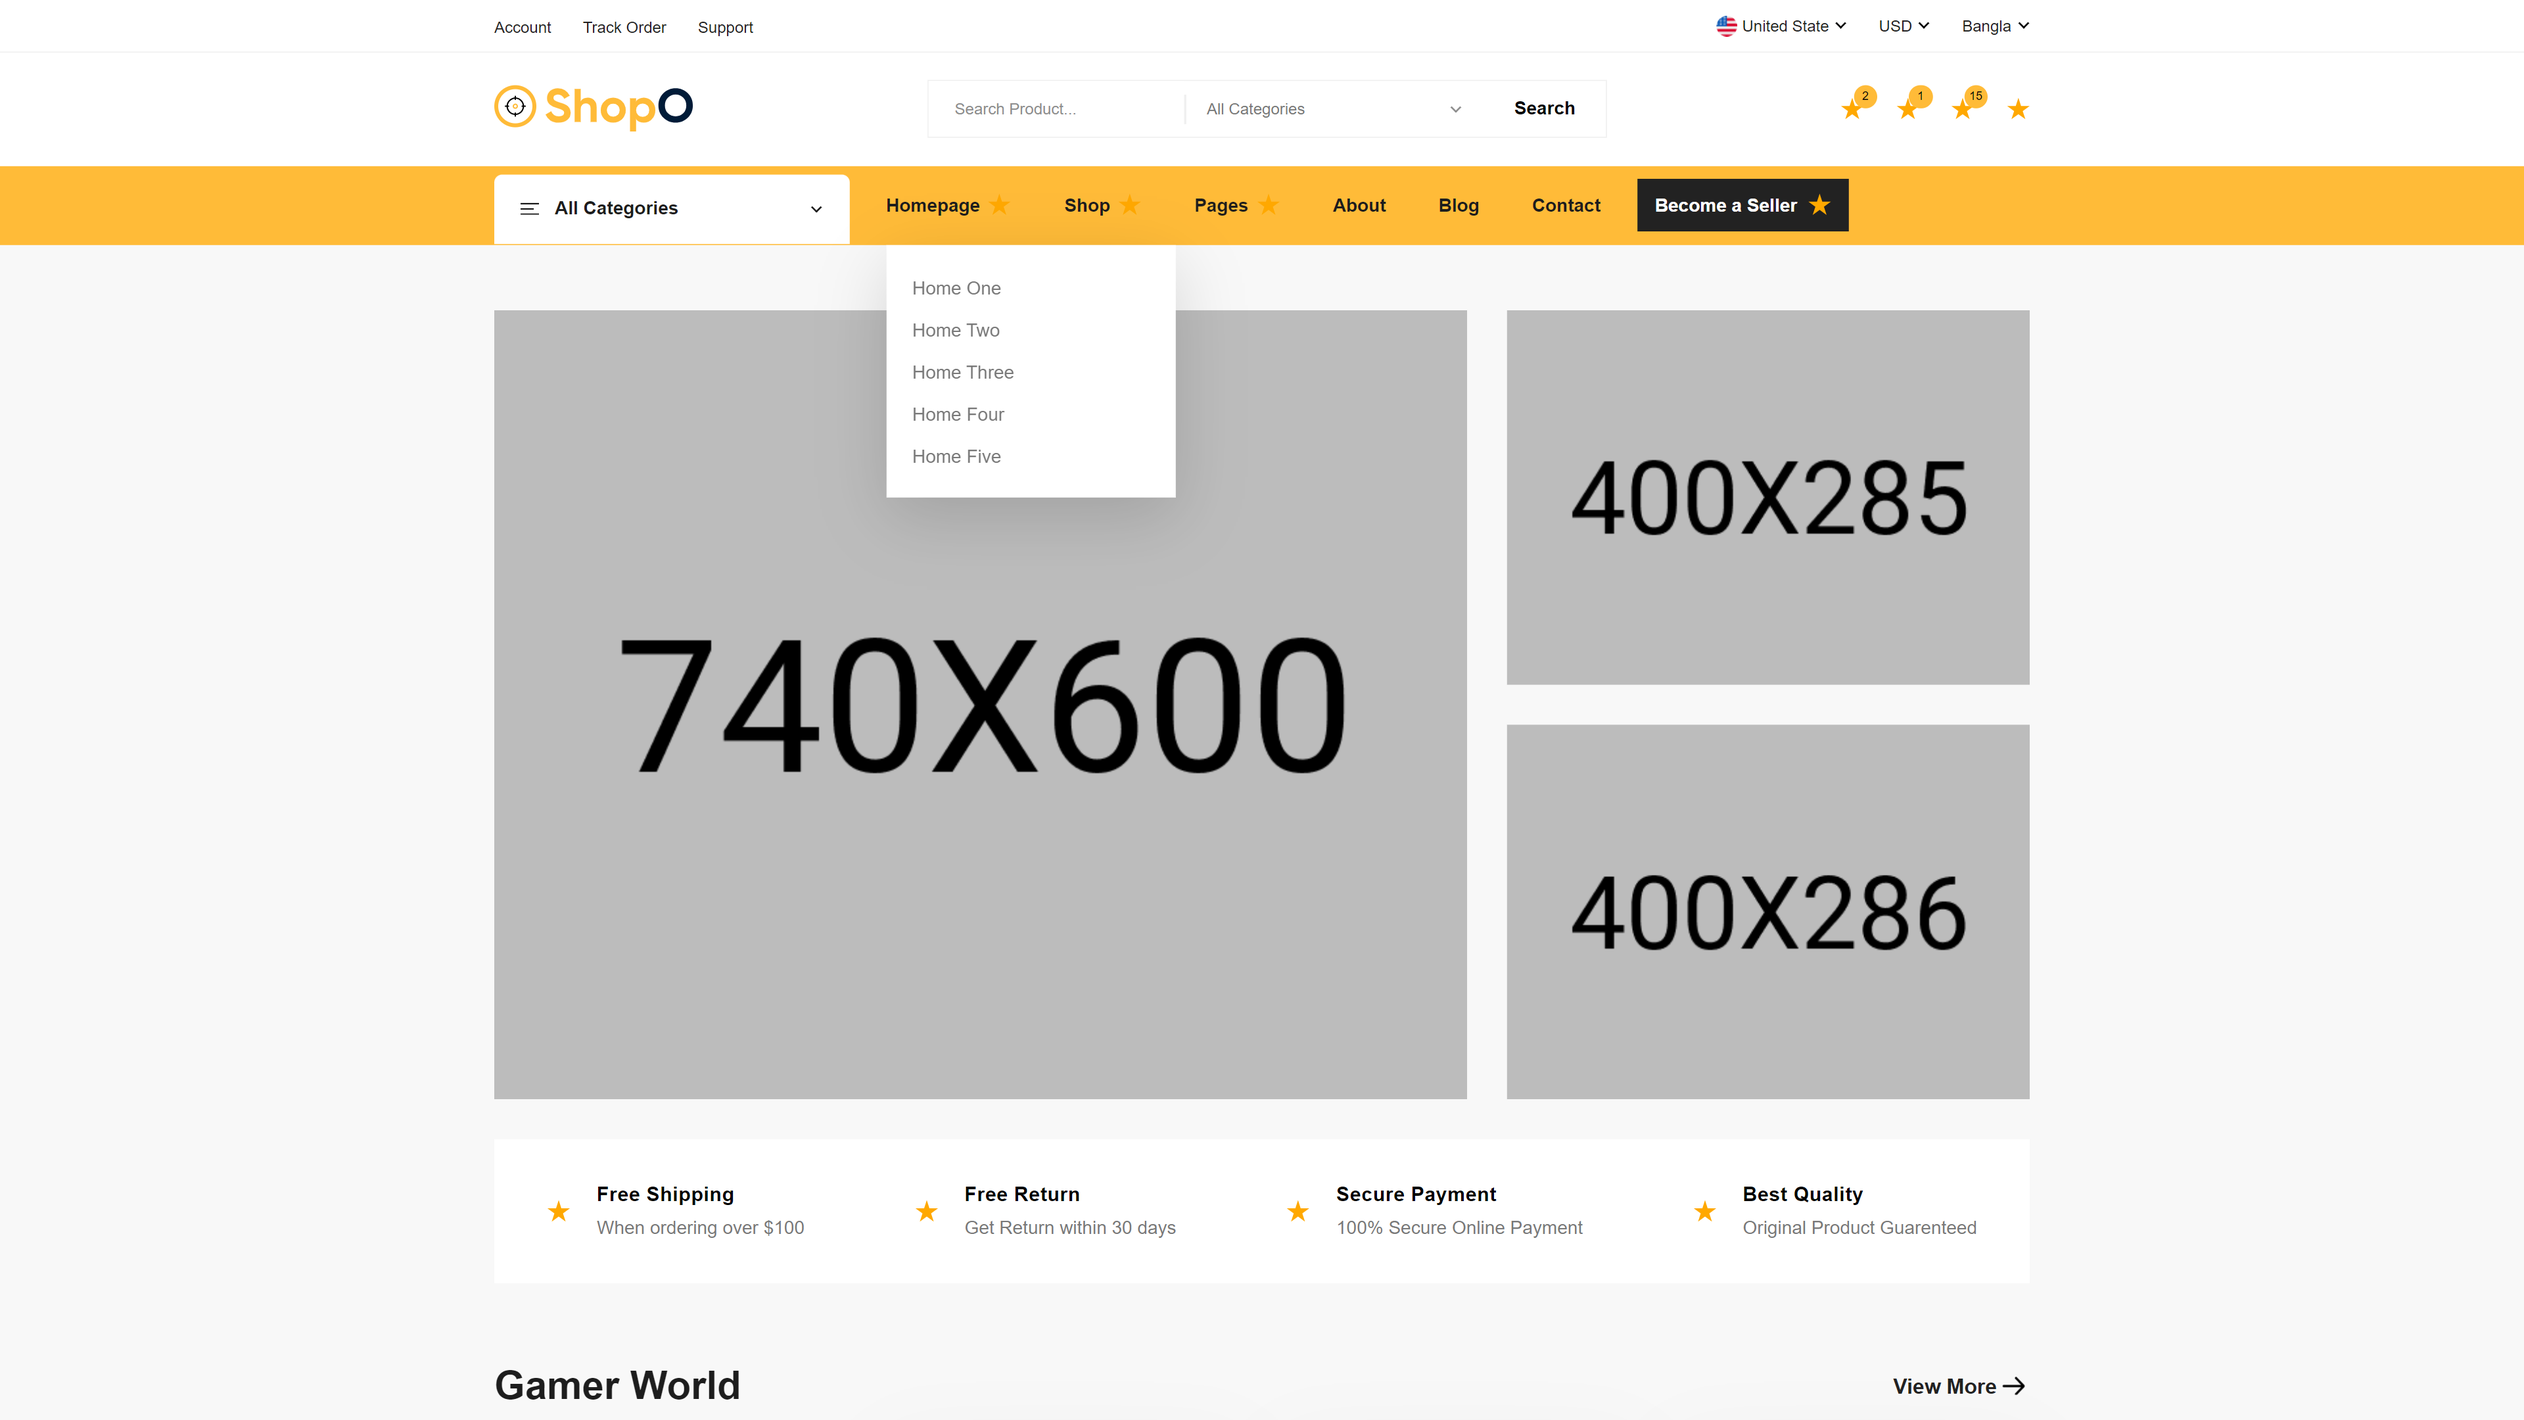
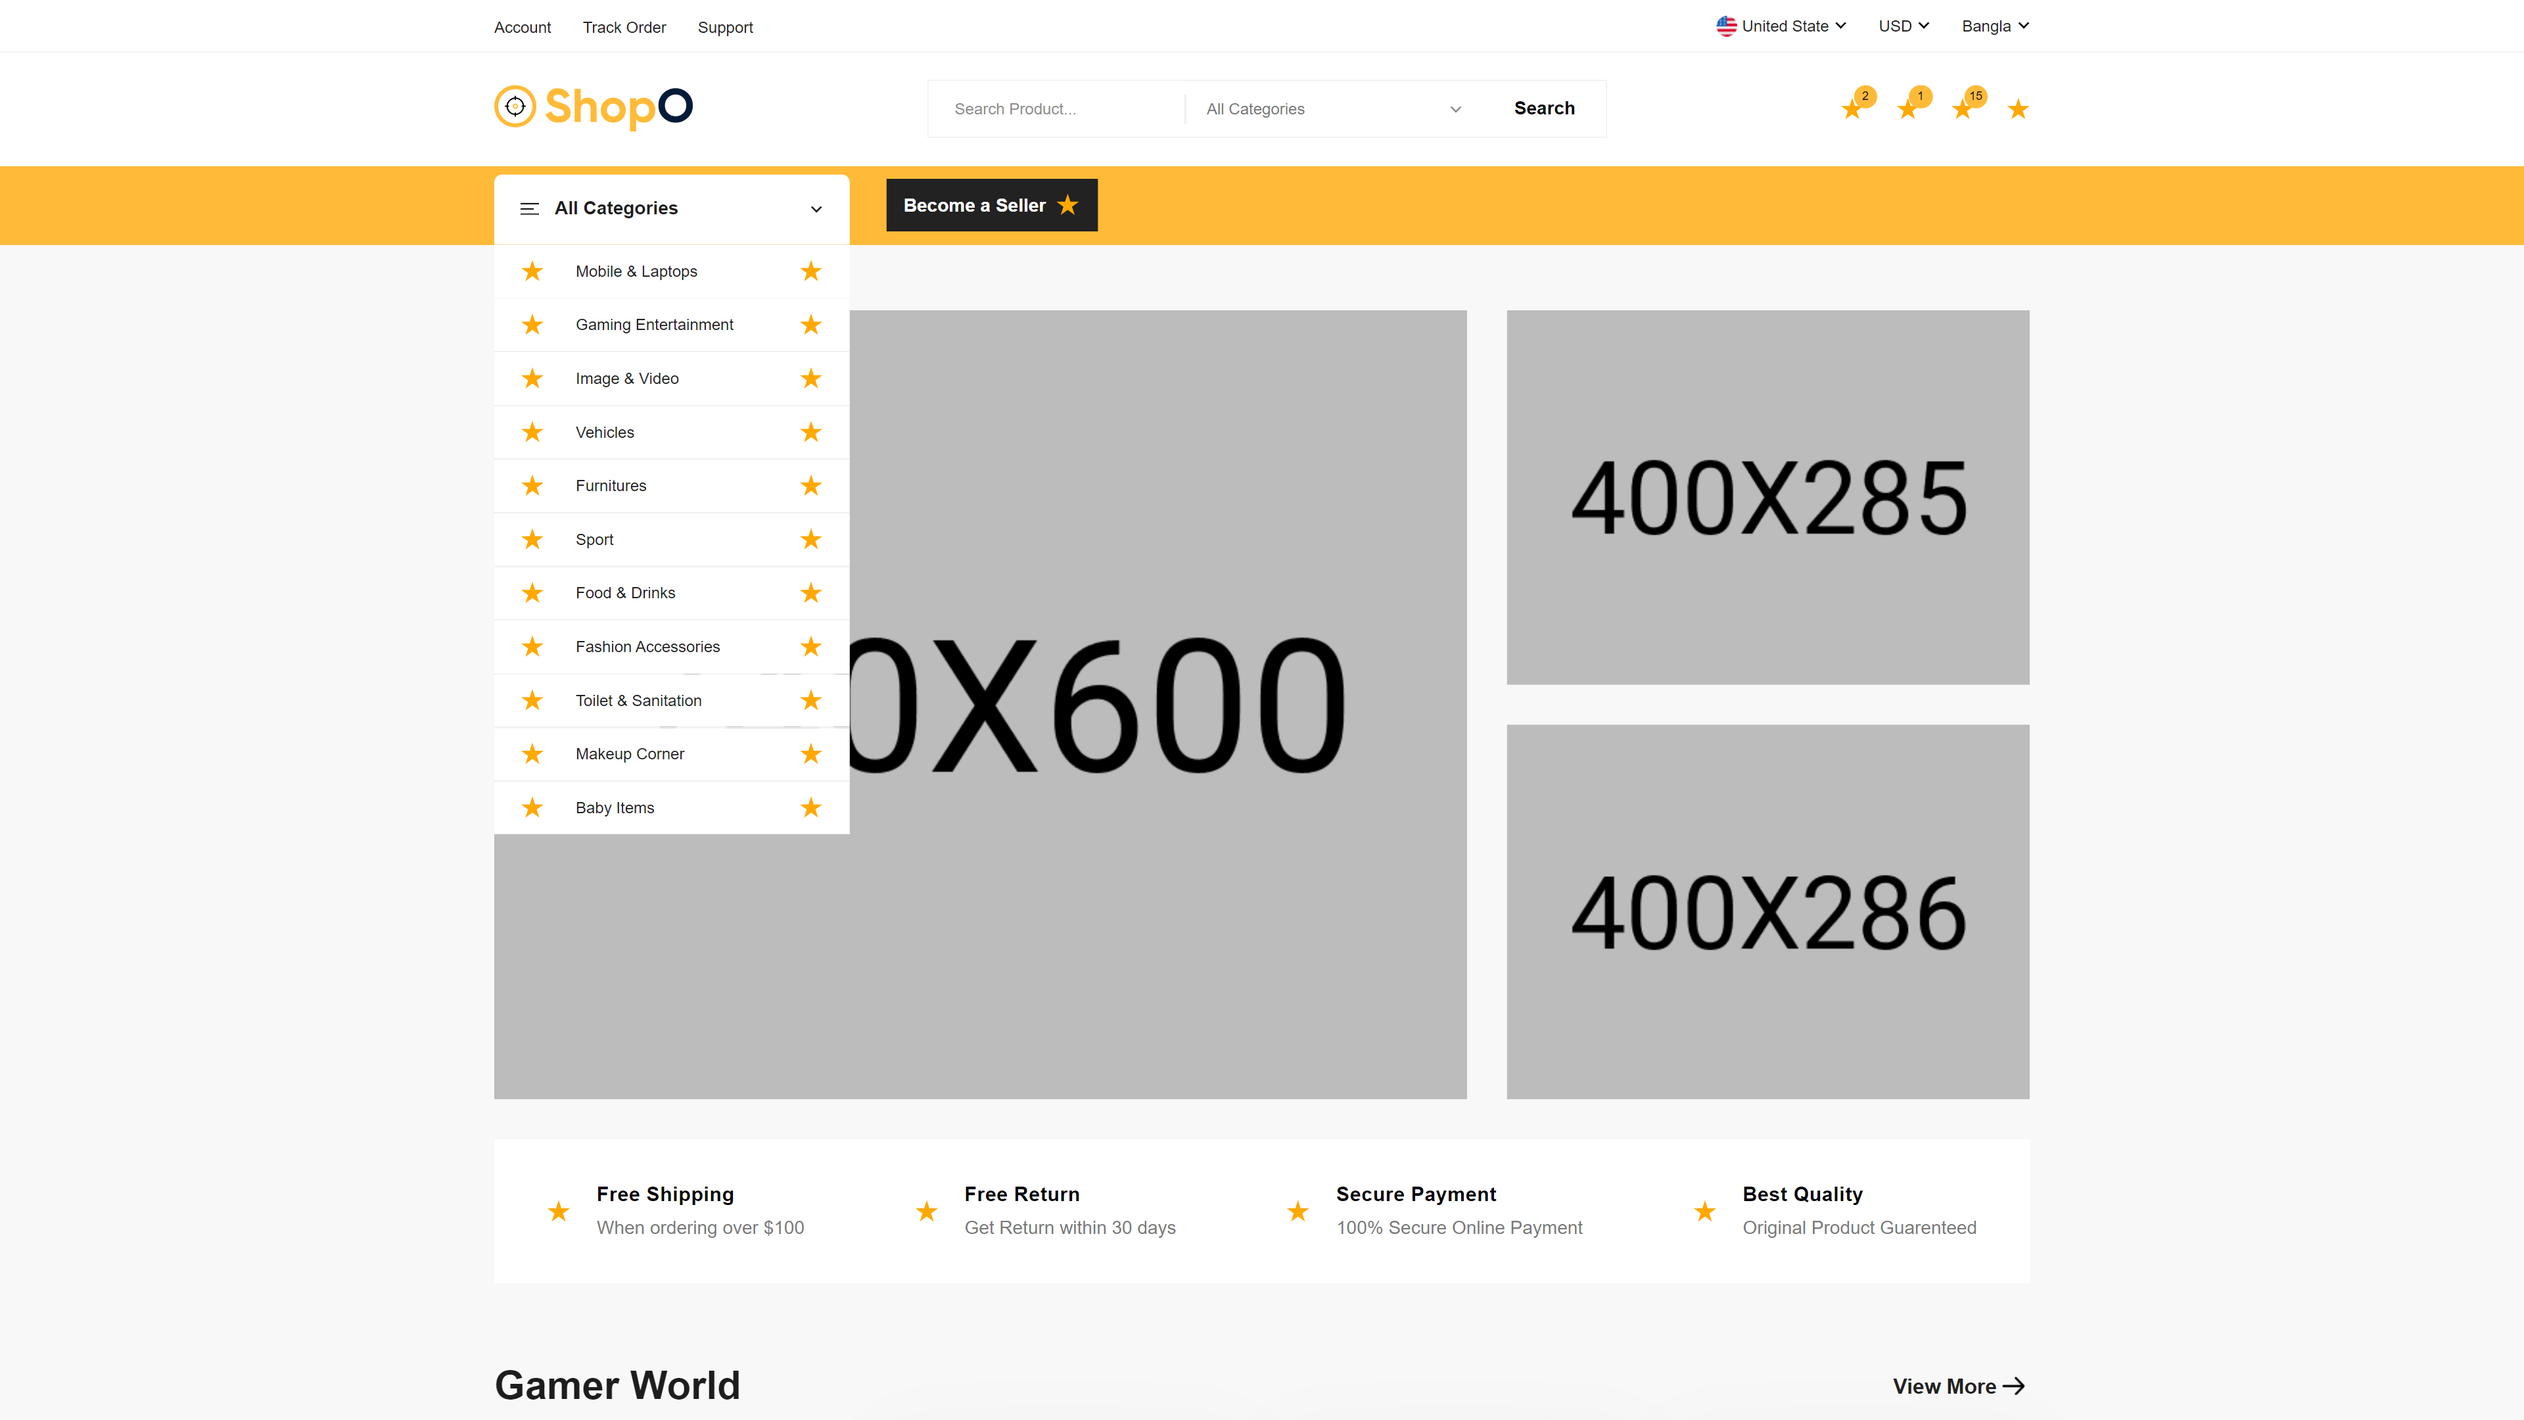
inside navbar nav-wrapper is deleted

diff --git a/src/components/Headers/Navbar.jsx b/src/components/Headers/Navbar.jsx
@@ -109,234 +109,6 @@ export default function Navbar({ className, type }) {
                   </ul>
                 </div>
               </div>
-              <div className="nav">
-                <ul className="nav-wrapper flex xl:space-x-10 space-x-5">
-                  <li className="relative">
-                    <span
-                      className={`flex items-center text-sm font-600 cursor-pointer ${
-                        type === 3 ? "text-white" : "text-qblacktext"
-                      }`}
-                    >
-                      <span>Homepage</span>
-                      <span className="ml-1.5 ">
-                        <Star className="fill-current" />
-                      </span>
-                    </span>
-                    <div className="sub-menu w-[220px] absolute left-0 top-[60px]">
-                      <div
-                        className="w-full bg-white flex justify-between items-center "
-                        style={{
-                          boxShadow: "0px 15px 50px 0px rgba(0, 0, 0, 0.14)",
-                        }}
-                      >
-                        <div className="categories-wrapper w-full h-full p-5">
-                          <div>
-                            <div className="category-items">
-                              <ul className="flex flex-col space-y-2">
-                                {[
-                                  { label: "Home One" },
-                                  { label: "Home Two" },
-                                  { label: "Home Three" },
-                                  { label: "Home Four" },
-                                  { label: "Home Five" },
-                                ].map((menuItem) => (
-                                  <li key={menuItem.label}>
-                                    <a to="">
-                                      <span
-                                        className={`text-qgray text-sm font-400 border-b border-transparent ${
-                                          type === 3
-                                            ? "hover:text-qh3-blue hover:border-qh3-blue"
-                                            : "hover:text-qyellow hover:border-qyellow"
-                                        }`}
-                                      >
-                                        {menuItem.label}
-                                      </span>
-                                    </a>
-                                  </li>
-                                ))}
-                              </ul>
-                            </div>
-                          </div>
-                        </div>
-                      </div>
-                    </div>
-                  </li>
-                  <li>
-                    <span
-                      className={`flex items-center text-sm font-600 cursor-pointer ${
-                        type === 3 ? "text-white" : "text-qblacktext"
-                      }`}
-                    >
-                      <span>Shop</span>
-                      <span className="ml-1.5 ">
-                        <Star className="fill-current" />
-                      </span>
-                    </span>
-                    <div className="sub-menu w-full absolute left-0 top-[60px]">
-                      <div
-                        className="mega-menu-wrapper w-full bg-white p-[30px] flex justify-between items-center "
-                        style={{
-                          minHeight: "295px",
-                          boxShadow: "0px 15px 50px 0px rgba(0, 0, 0, 0.14)",
-                        }}
-                      >
-                        <div className="categories-wrapper flex-1 h-full flex justify-around -ml-[70px]">
-                          {[
-                            {
-                              label: "Shop List",
-                              items: [
-                                "Shop Sidebar",
-                                "Shop Fullwidth",
-                                "Shop Category Icon",
-                                "Shop Category Icon",
-                                "Shop List View",
-                              ],
-                            },
-                            {
-                              label: "Product Layouts",
-                              items: [
-                                "Horizonral Thumbnail",
-                                "Vertical Thumbnail",
-                                "Gallery Thumbnail",
-                                "Sticky Summary",
-                              ],
-                            },
-                            {
-                              label: "Popular Category",
-                              items: [
-                                "Phone & Tablet",
-                                "Gaming & Sports",
-                                "Home Appliance",
-                                "Fashion Clothes",
-                              ],
-                            },
-                          ].map((menuGroup) => (
-                            <div key={menuGroup.label}>
-                              <div className="category">
-                                <h1 className="text-[13px] font-700 text-qblack uppercase mb-[13px]">
-                                  {menuGroup.label}
-                                </h1>
-                              </div>
-                              <div className="category-items">
-                                <ul className="flex flex-col space-y-2">
-                                  {menuGroup.items.map((menuItem, index) => (
-                                    <li key={index}>
-                                      <a to="">
-                                        <span
-                                          className={`text-qgray text-sm font-400 border-b border-transparent ${
-                                            type === 3
-                                              ? "hover:text-qh3-blue hover:border-qh3-blue"
-                                              : "hover:text-qyellow hover:border-qyellow"
-                                          }`}
-                                        >
-                                          {menuItem}
-                                        </span>
-                                      </a>
-                                    </li>
-                                  ))}
-                                </ul>
-                              </div>
-                            </div>
-                          ))}
-                        </div>
-                        <div className="thumbnil w-[348px] h-full">
-                          <div className="w-full h-[235px]">
-                            <img
-                              width=""
-                              src={`${
-                                import.meta.env.VITE_PUBLIC_URL
-                              }/src/assets/images/mega-menu-thumb.jpg`}
-                              alt=""
-                              className="w-full h-full object-contain"
-                            />
-                          </div>
-                        </div>
-                      </div>
-                    </div>
-                  </li>
-                  <li className="relative">
-                    <span
-                      className={`flex items-center text-sm font-600 cursor-pointer ${
-                        type === 3 ? "text-white" : "text-qblacktext"
-                      }`}
-                    >
-                      <span>Pages</span>
-                      <span className="ml-1.5 ">
-                        <Star className="fill-current" />
-                      </span>
-                    </span>
-                    <div className="sub-menu w-[220px] absolute left-0 top-[60px]">
-                      <div
-                        className="w-full bg-white flex justify-between items-center"
-                        style={{
-                          boxShadow: "0px 15px 50px 0px rgba(0, 0, 0, 0.14)",
-                        }}
-                      >
-                        <div className="categories-wrapper w-full h-full p-5">
-                          <div className="category-items">
-                            <ul className="flex flex-col space-y-2">
-                              {[
-                                { label: "Privacy Policy" },
-                                { label: "Terms and Conditions" },
-                                { label: "FAQ" },
-                                { label: "Shop Category Icon" },
-                                { label: "Shop List View" },
-                              ].map((menuItem, index) => (
-                                <li key={index}>
-                                  <a to="">
-                                    <span
-                                      className={`text-qgray text-sm font-400 border-b border-transparent ${
-                                        type === 3
-                                          ? "hover:text-qh3-blue hover:border-qh3-blue"
-                                          : "hover:text-qyellow hover:border-qyellow"
-                                      }`}
-                                    >
-                                      {menuItem.label}
-                                    </span>
-                                  </a>
-                                </li>
-                              ))}
-                            </ul>
-                          </div>
-                        </div>
-                      </div>
-                    </div>
-                  </li>
-                  <li>
-                    <a to="/about">
-                      <span
-                        className={`flex items-center text-sm font-600 cursor-pointer ${
-                          type === 3 ? "text-white" : "text-qblacktext"
-                        }`}
-                      >
-                        <span>About</span>
-                      </span>
-                    </a>
-                  </li>
-                  <li>
-                    <a to="/blogs">
-                      <span
-                        className={`flex items-center text-sm font-600 cursor-pointer ${
-                          type === 3 ? "text-white" : "text-qblacktext"
-                        }`}
-                      >
-                        <span>Blog</span>
-                      </span>
-                    </a>
-                  </li>
-                  <li>
-                    <a to="/contact">
-                      <span
-                        className={`flex items-center text-sm font-600 cursor-pointer ${
-                          type === 3 ? "text-white" : "text-qblacktext"
-                        }`}
-                      >
-                        <span>Contact</span>
-                      </span>
-                    </a>
-                  </li>
-                </ul>
-              </div>
               <div className="become-seller-btn">
                 <a to="/become-saller">
                   <div className="black-btn w-[161px] h-[40px] flex justify-center items-center cursor-pointer">

diff --git a/src/index.css b/src/index.css
@@ -1,46 +1,46 @@
 @font-face {
   font-family: "Inter";
-  src: url("/public/assets/fonts/Inter-Black.ttf");
+  src: url("/assets/fonts/Inter-Black.ttf");
   font-weight: 900;
 }
 @font-face {
   font-family: "Inter";
-  src: url("/public/assets/fonts/Inter-Bold.ttf");
+  src: url("/assets/fonts/Inter-Bold.ttf");
   font-weight: 700;
 }
 @font-face {
   font-family: "Inter";
-  src: url("/public/assets/fonts/Inter-ExtraBold.ttf");
+  src: url("/assets/fonts/Inter-ExtraBold.ttf");
   font-weight: 800;
 }
 @font-face {
   font-family: "Inter";
-  src: url("/public/assets/fonts/Inter-ExtraLight.ttf");
+  src: url("/assets/fonts/Inter-ExtraLight.ttf");
   font-weight: 200;
 }
 @font-face {
   font-family: "Inter";
-  src: url("/public/assets/fonts/Inter-Light.ttf");
+  src: url("/assets/fonts/Inter-Light.ttf");
   font-weight: 300;
 }
 @font-face {
   font-family: "Inter";
-  src: url("/public/assets/fonts/Inter-Medium.ttf");
+  src: url("/assets/fonts/Inter-Medium.ttf");
   font-weight: 500;
 }
 @font-face {
   font-family: "Inter";
-  src: url("/public/assets/fonts/Inter-Regular.ttf");
+  src: url("/assets/fonts/Inter-Regular.ttf");
   font-weight: 400;
 }
 @font-face {
   font-family: "Inter";
-  src: url("/public/assets/fonts/Inter-SemiBold.ttf");
+  src: url("/assets/fonts/Inter-SemiBold.ttf");
   font-weight: 600;
 }
 @font-face {
   font-family: "Inter";
-  src: url("/public/assets/fonts/Inter-Thin.ttf");
+  src: url("/assets/fonts/Inter-Thin.ttf");
   font-weight: 100;
 }
 
